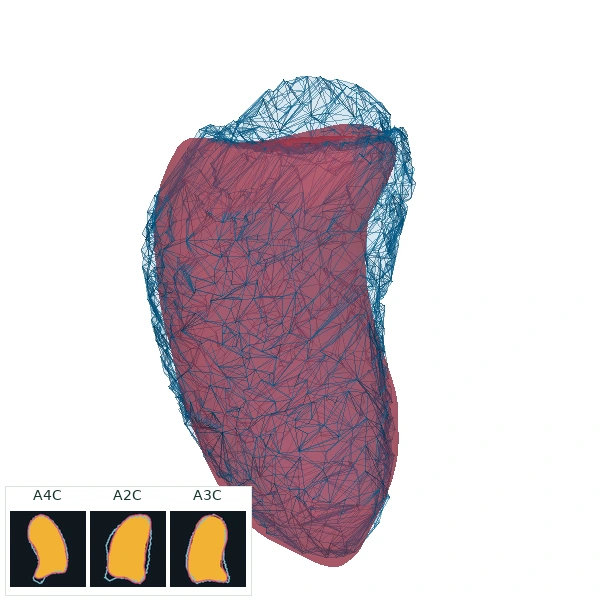
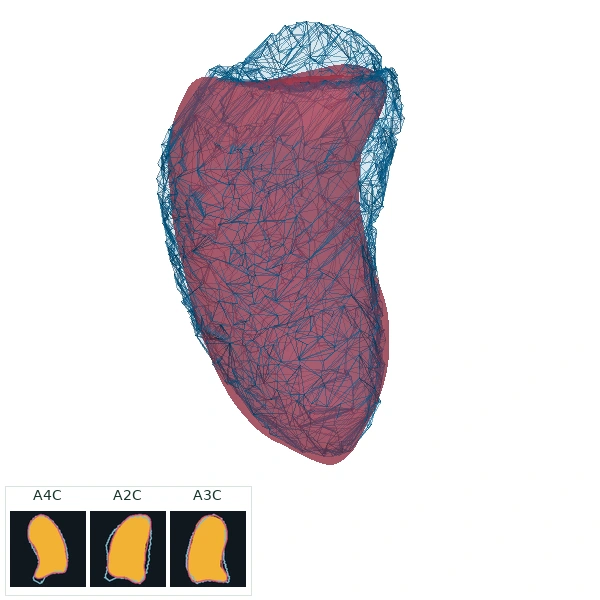
Move CT models above mask insets and remove MRI explanatory note

Changed region(s): [[0.21, 0.03, 0.69, 0.96]]

diff --git a/docs/index.html b/docs/index.html
@@ -8,6 +8,6 @@
 <section id="overlap"><div class="section-head"><p class="eyebrow">04 / 2D OBSERVATION AGREEMENT</p><h2>Follow the cross-sections through a cycle.</h2><p>LV sections of the exported mesh compared with the input masks in A2C, A3C and A4C, using the fixed calibrated planes.</p></div><div id="overlap-player" class="wide"></div><p class="legend"><i class="green"></i>Reference only <i class="red"></i>Prediction only <i class="purple"></i>Overlap</p></section>
 <section id="wholeheart"><div class="section-head"><p class="eyebrow">05 / MULTI-STRUCTURE EXPLORATION</p><h2>A shared space for the whole heart.</h2></div><div id="wholeheart-grid" class="grid two"></div></section>
 <section id="validation"><div class="section-head"><p class="eyebrow">06 / 3D CT EXTERNAL VALIDATION</p><h2>A different modality. A three-dimensional reference.</h2><p>Patient-matched LV reconstruction (red) and CT reference (blue). Lower-left insets show the paper's A4C, A2C and A3C mask overlaps.</p></div><div id="ct-grid" class="grid three"></div></section>
-<section id="mri"><div class="section-head"><p class="eyebrow">07 / CINE MRI TEMPORAL COMPARISON</p><h2>Geometry and volume, in step.</h2><p>The two paper-selected examples pair each rendered frame with its measured normalized LV volume. Scrub the cycle or press play: mesh and curve marker share the same frame index.</p><a class="download-link" href="assets/MRI_mesh_and_volume_GIFs.zip" download>Download MRI mesh + volume-curve GIFs ↓</a></div><div id="mri-grid" class="grid two"></div><p class="note">Red: reconstructed LV · blue: MRI reference · champagne: epicardial envelope. Curves are normalized by each sequence's end-diastolic volume. All 25 native frames are retained; frame 24 is 96% of a periodic cycle. The 100% curve endpoint repeats frame 0 for display closure, not an extra measured frame. MRI-derived approximate view masks are distinct from clinical ultrasound acquisition.</p></section>
+<section id="mri"><div class="section-head"><p class="eyebrow">07 / CINE MRI TEMPORAL COMPARISON</p><h2>Geometry and volume, in step.</h2><p>The two paper-selected examples pair each rendered frame with its measured normalized LV volume. Scrub the cycle or press play: mesh and curve marker share the same frame index.</p><a class="download-link" href="assets/MRI_mesh_and_volume_GIFs.zip" download>Download MRI mesh + volume-curve GIFs ↓</a></div><div id="mri-grid" class="grid two"></div></section>
 </main>
 <footer><a class="brand" href="#">Echo<span>4D</span>Mesh</a><p>Research demo gallery · <a href="https://github.com/lya19971103/Echo4DMesh">Source repository ↗</a></p></footer></body></html>
